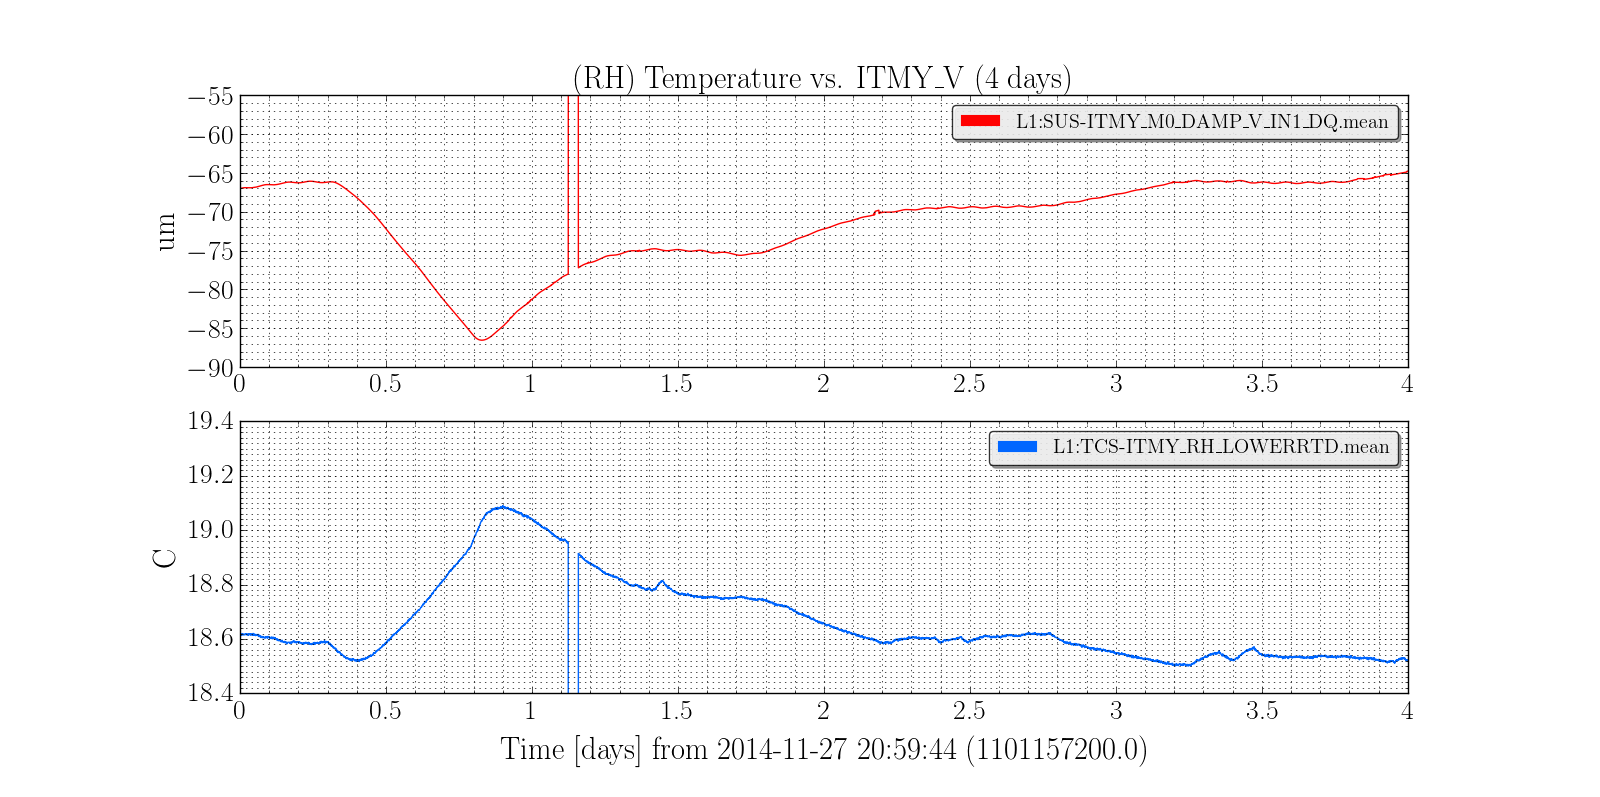
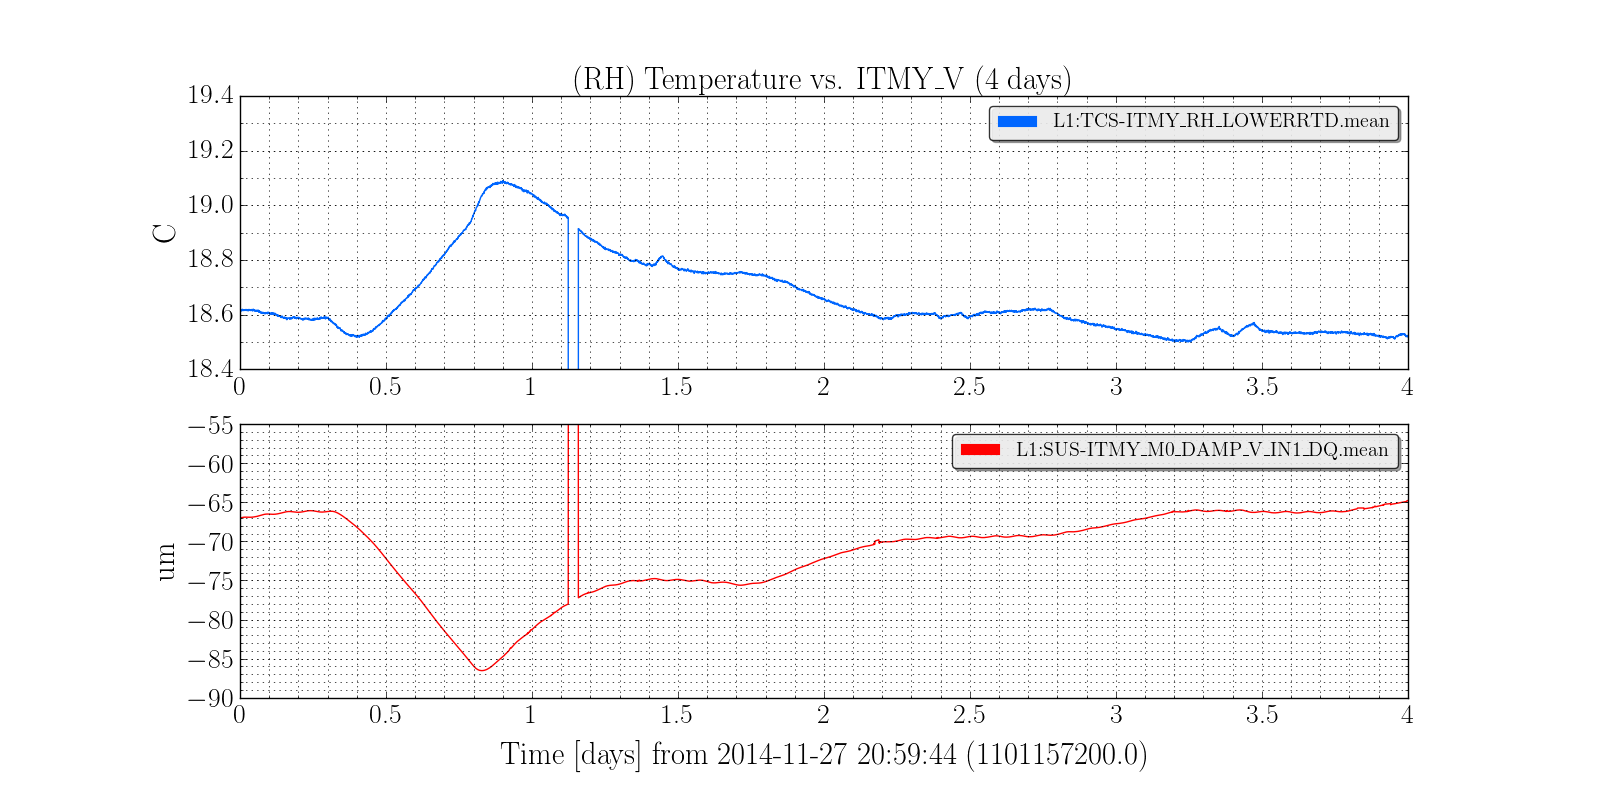
added fetch_HAM_Temp_SRC and fetch_OSEMNIF

diff --git a/Vdof_Temp_Chracterization/fetch_HAM_Temp_SRC.py b/Vdof_Temp_Chracterization/fetch_HAM_Temp_SRC.py
@@ -1,0 +1,49 @@
+#This script compares HAM4 (SR2), HAM5 (SR3, SRM) in-chamber temp to V dof SR2 (HSTS), SRM (HSTS), SR3 (HLTS)
+
+from gwpy.time import Time
+from gwpy.timeseries import TimeSeries
+from gwpy.plotter import TimeSeriesPlot
+from matplotlib.ticker import MultipleLocator, FormatStrFormatter
+
+start = Time('2014-11-27 21:00:00', format='iso', scale='utc')
+end = Time('2014-12-01 21:00:00', format='iso', scale='utc')
+print start.iso, start.gps
+print end.iso, end.gps
+
+SR2 = TimeSeries.fetch('L1:SUS-SR2_M1_DAMP_V_IN1_DQ.mean,m-trend', start, end, verbose=True)
+SR3 = TimeSeries.fetch('L1:SUS-SR3_M1_DAMP_V_IN1_DQ.mean,m-trend', start, end, verbose=True)
+SRM = TimeSeries.fetch('L1:SUS-SRM_M1_DAMP_V_IN1_DQ.mean,m-trend', start, end, verbose=True)
+TCS_HAM4 = TimeSeries.fetch('L1:TCS-ITMY_HWS_CHAMBERTEMPERATURESENSORA.mean,m-trend', start, end, verbose=True)
+TCS_HAM5 = TimeSeries.fetch('L1:TCS-ITMX_HWS_CHAMBERTEMPERATURESENSORA.mean,m-trend', start, end, verbose=True)
+
+print 'data fetched'
+
+plot_HAM4 = TimeSeriesPlot(TCS_HAM4, SR2, sep=True)
+ax1 = plot_HAM4.axes[0]  #plot TCS_HAM4
+ax1.plot(TCS_HAM5, label='L1:TCS-ITMX\_HWS\_CHAMBERTEMPERATURESENSORA.mean') #plot TCS_HAM5
+#ax1.lines[0].set_color('red')
+ax1.set_ylim(18,18.6)
+ax1.set_ylabel('C')
+ax1.set_title('(HWS) Temperature vs. SRC (4 days)')
+ax1.legend(loc='upper right',  ncol=1, fancybox=True, shadow=True) 
+ax1.grid(True, which='both', axis='both') # add more grid   
+#mj  = MultipleLocator(1)
+ml1 = MultipleLocator(0.1)
+#ax1.yaxis.set_major_locator(mj)
+ax1.yaxis.set_minor_locator(ml1)
+
+ax2 = plot_HAM4.axes[1]  #plotSR2
+ax2.plot(SR3, label = 'L1:SUS-SR3\_M1\_DAMP\_V\_IN1\_DQ.mean')
+ax2.plot(SRM, label = 'L1:SUS-SRM\_M1\_DAMP\_V\_IN1\_DQ.mean')
+ax2.set_ylim(-30,100)
+ax2.set_ylabel('um')
+ax2.legend(loc='upper right',  ncol=2, fancybox=True, shadow=True)
+ax2.grid(True, which='both', axis='both') # add more grid
+#mj  = MultipleLocator(1)
+#ml2 = MultipleLocator(0.1)
+#ax1.yaxis.set_major_locator(mj)
+#ax2.yaxis.set_minor_locator(ml1)
+
+print 'plotting'
+
+plot_HAM4.show()

diff --git a/Vdof_Temp_Chracterization/ITMY_ChamberTemp.py b/Vdof_Temp_Chracterization/ITMY_ChamberTemp.py
@@ -14,29 +14,29 @@ ITMY = TimeSeries.fetch('L1:SUS-ITMY_M0_DAMP_V_IN1_DQ.mean,m-trend', start, end,
 
 print 'data fetched'
 
-plot = TimeSeriesPlot(ITMY, RH, sep=True)
+plot = TimeSeriesPlot(RH, ITMY, sep=True)
 
-ax1 = plot.axes[0]
-ax1.set_ylim(-90,-55)
-ax1.set_ylabel('um')
-ax1.lines[0].set_color('red')
-ax1.set_title('(RH) Temperature vs. ITMY\_V (4 days)')
-ax1.legend(loc='upper right',  ncol=1, fancybox=True, shadow=True) 
-ax1.grid(True, which='both', axis='both') # add more grid   
-#mj  = MultipleLocator(2)
-ml1 = MultipleLocator(1)
-#ax1.yaxis.set_major_locator(mj)
-ax1.yaxis.set_minor_locator(ml1)
-
-ax2 = plot.axes[1]
+ax2 = plot.axes[0]
 ax2.set_ylim(18.4,19.4)
 ax2.set_ylabel('C')
 ax2.legend(loc='upper right',  ncol=1, fancybox=True, shadow=True)
 ax2.grid(True, which='both', axis='both') # add more grid
+ax2.set_title('(RH) Temperature vs. ITMY\_V (4 days)')
 mj  = MultipleLocator(0.1)
-ml2 = MultipleLocator(0.02)
-##ax1.yaxis.set_major_locator(mj)
+ml2 = MultipleLocator(0.1)
+#ax1.yaxis.set_major_locator(mj)
 ax2.yaxis.set_minor_locator(ml2)
+
+ax1 = plot.axes[1]
+ax1.set_ylim(-90,-55)
+ax1.set_ylabel('um')
+ax1.lines[0].set_color('red')
+ax1.legend(loc='upper right',  ncol=1, fancybox=True, shadow=True)
+ax1.grid(True, which='both', axis='both') # add more grid                                                                                         
+#mj  = MultipleLocator(2)                                                                                                                         
+ml1 = MultipleLocator(1)
+#ax1.yaxis.set_major_locator(mj)                                                                                                                  
+ax1.yaxis.set_minor_locator(ml1)
 
 print 'plotting'
 

diff --git a/Vdof_Temp_Chracterization/fetch_OSEMINF.py b/Vdof_Temp_Chracterization/fetch_OSEMINF.py
@@ -1,0 +1,33 @@
+from gwpy.time import Time
+from gwpy.timeseries import TimeSeries
+from matplotlib.ticker import MultipleLocator, FormatStrFormatter
+
+start = Time('2014-11-30 00:00:00', format='iso', scale='utc')
+end = Time('2014-12-01 00:00:00', format='iso', scale='utc')
+print start.iso, start.gps
+print end.iso, end.gps
+
+LF = TimeSeries.fetch('L1:SUS-ITMY_M0_OSEMINF_LF_OUT_DQ.mean,m-trend', start, end, verbose=True)
+RT = TimeSeries.fetch('L1:SUS-ITMY_M0_OSEMINF_RT_OUT_DQ.mean,m-trend', start, end, verbose=True)
+F1 = TimeSeries.fetch('L1:SUS-ITMY_M0_OSEMINF_F1_OUT_DQ.mean,m-trend', start, end, verbose=True)
+F2 = TimeSeries.fetch('L1:SUS-ITMY_M0_OSEMINF_F2_OUT_DQ.mean,m-trend', start, end, verbose=True)
+F3 = TimeSeries.fetch('L1:SUS-ITMY_M0_OSEMINF_F3_OUT_DQ.mean,m-trend', start, end, verbose=True)
+SD = TimeSeries.fetch('L1:SUS-ITMY_M0_OSEMINF_SD_OUT_DQ.mean,m-trend', start, end, verbose=True)
+
+print 'data fetched'
+
+plot_LF = LF.plot()
+ax = plot_LF.gca()
+
+ax.plot(RT, label = 'L1:SUS-ITMY\_M0\_OSEMINF\_RT\_OUT\_DQ.mean')
+ax.plot(F1, label = 'L1:SUS-ITMY\_M0\_OSEMINF\_F1\_OUT\_DQ.mean')
+ax.plot(F2, label = 'L1:SUS-ITMY\_M0\_OSEMINF\_F2\_OUT\_DQ.mean')
+ax.plot(F3, label = 'L1:SUS-ITMY\_M0\_OSEMINF\_F3\_OUT\_DQ.mean')
+ax.plot(SD, label = 'L1:SUS-ITMY\_M0\_OSEMINF\_SD\_OUT\_DQ.mean')
+
+ax.set_ylabel('um')
+ax.legend(loc='upper right', ncol=1, fancybox=True, shadow=True)
+
+print 'plotting'
+
+plot_LF.show()

diff --git a/Vdof_Temp_Chracterization/fetchITMY.py b/Vdof_Temp_Chracterization/fetchITMY.py
@@ -2,8 +2,8 @@ from gwpy.time import Time
 from gwpy.timeseries import TimeSeries
 from matplotlib.ticker import MultipleLocator, FormatStrFormatter
 
-start = Time('2014-11-27 21:00:00', format='iso', scale='utc')
-end = Time('2014-12-01 21:00:00', format='iso', scale='utc')
+start = Time('2014-11-30 00:00:00', format='iso', scale='utc')
+end = Time('2014-12-01 00:00:00', format='iso', scale='utc')
 print start.iso, start.gps
 print end.iso, end.gps
 
@@ -15,9 +15,9 @@ plot_ITMY = ITMY.plot()
 
 ax = plot_ITMY.gca()
 
-ax.set_ylim(-90,-50)
+#ax.set_ylim(-90,-50)
 ax.set_ylabel('um')
-ax.set_title('SUS-ITMY\_M0\_DAMP\_V\_IN1\_DQ (4 days)')
+#ax.set_title('SUS-ITMY\_M0\_DAMP\_V\_IN1\_DQ (4 days)')
 ax.legend(loc='upper right',  ncol=1, fancybox=True, shadow=True)
 ax.grid(True, which='both', axis='both')
 

diff --git a/Vdof_Temp_Chracterization/ITMY.py b/Vdof_Temp_Chracterization/ITMY.py
@@ -1,0 +1,13 @@
+from gwpy.time import Time
+from gwpy.timeseries import TimeSeries
+from gwpy.plotter import TimeSeriesPlot
+from matplotlib.ticker import MultipleLocator, FormatStrFormatter
+
+start = Time('2014-11-29 00:00:00', format='iso', scale='utc')
+end = Time('2014-11-30 00:00:00', format='iso', scale='utc')
+print start.iso, start.gps
+print end.iso, end.gps
+
+#TCS = TimeSeries.fetch('L1:TCS-ITMY_HWS_CHAMBERTEMPERATURESENSORB.mean,m-trend', start, end, verbose=True)
+RH = TimeSeries.fetch('L1:TCS-ITMY_RH_LOWERRTD.mean,m-trend', start, end, verbose=True)
+ITMY = TimeSeries.fetch('L1:SUS-ITMY_M0_DAMP_V_IN1_DQ.mean,m-trend', start, end, verbose=True)
